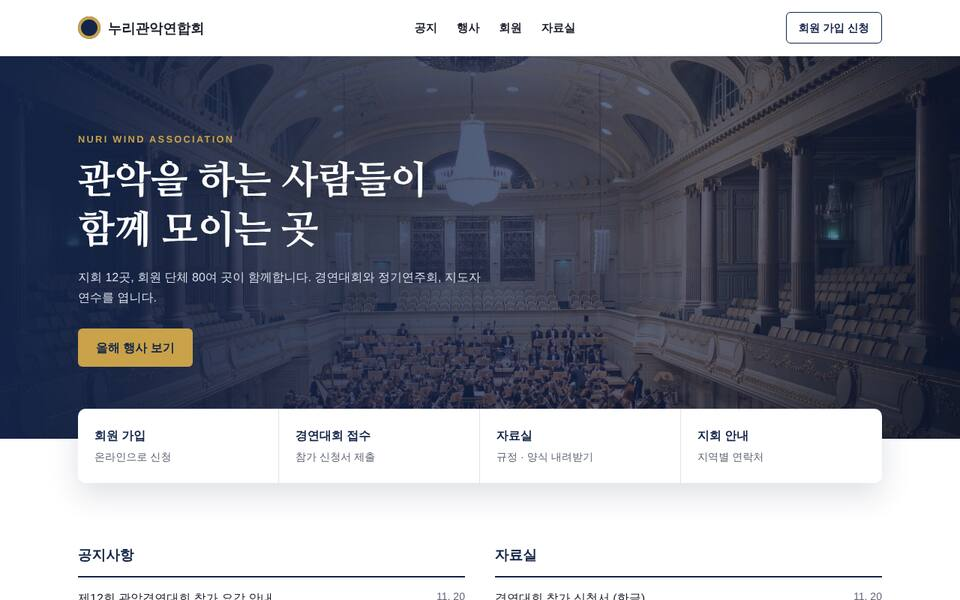
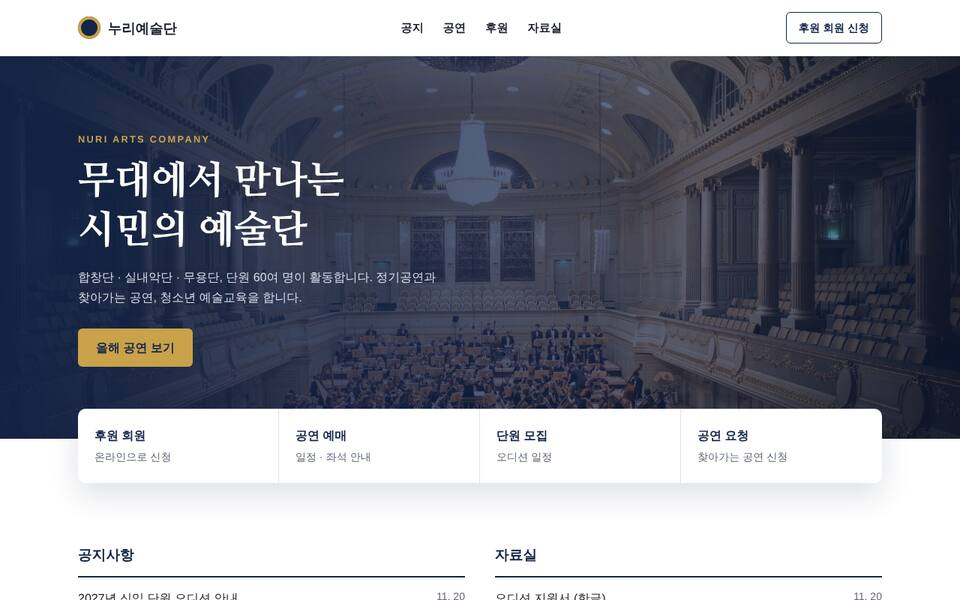
시안: 협회(관악) → 예술단체 '누리예술단'
- 관악은 사례 · 공연기획과 겹쳐서 합창단 · 실내악단 · 무용단이 있는 시민 예술단으로
- 바로가기 · 공지 · 자료실 · 올해 공연(무용 · 실내악 · 합창) · 후원 회원 신청
- 사진: 트럼펫 · 회의장 → 붉은 막 앞 무용수 · 공연장. /web/ 시안 카드 문구 · 그림도 바꿈

Claude-Session: https://claude.ai/code/session_018WutNR1L9ETgf3LqYTWj8i

diff --git a/web/samples/association/index.html b/web/samples/association/index.html
@@ -4,7 +4,7 @@
 <meta charset="utf-8">
 <meta name="viewport" content="width=device-width, initial-scale=1">
 <meta name="robots" content="noindex">
-<title>누리관악연합회 — 스테이지로직 홈페이지 시안</title>
+<title>누리예술단 — 스테이지로직 홈페이지 시안</title>
 <link rel="icon" href="/assets/favicon.svg" type="image/svg+xml">
 <link rel="stylesheet" href="https://cdn.jsdelivr.net/gh/orioncactus/pretendard@v1.3.9/dist/web/variable/pretendardvariable-dynamic-subset.min.css">
 <link rel="stylesheet" href="https://fonts.googleapis.com/css2?family=Nanum+Myeongjo:wght@800&display=swap">
@@ -66,30 +66,30 @@
 </style>
 </head>
 <body>
-<div class="ribbon">스테이지로직 홈페이지 시안 · 협회 / 단체 — 가상의 단체입니다.<a href="/web/#samples">← 홈페이지 제작으로</a></div>
+<div class="ribbon">스테이지로직 홈페이지 시안 · 예술단체 — 가상의 단체입니다.<a href="/web/#samples">← 홈페이지 제작으로</a></div>
 
 <header class="top"><div class="wrap">
-  <div class="brand"><i></i>누리관악연합회</div>
-  <nav class="menu"><a href="#news">공지</a><a href="#events">행사</a><a href="#join">회원</a><a href="#news">자료실</a></nav>
-  <a class="member" href="#join">회원 가입 신청</a>
+  <div class="brand"><i></i>누리예술단</div>
+  <nav class="menu"><a href="#news">공지</a><a href="#events">공연</a><a href="#join">후원</a><a href="#news">자료실</a></nav>
+  <a class="member" href="#join">후원 회원 신청</a>
 </div></header>
 
 <section class="hero">
   <img src="/assets/img/samples/as-hero.jpg" width="1800" height="1200" alt="" fetchpriority="high">
   <div class="wrap">
-    <small>NURI WIND ASSOCIATION</small>
-    <h1>관악을 하는 사람들이<br>함께 모이는 곳</h1>
-    <p>지회 12곳, 회원 단체 80여 곳이 함께합니다. 경연대회와 정기연주회, 지도자 연수를 엽니다.</p>
-    <a class="btn" href="#events">올해 행사 보기</a>
+    <small>NURI ARTS COMPANY</small>
+    <h1>무대에서 만나는<br>시민의 예술단</h1>
+    <p>합창단 · 실내악단 · 무용단, 단원 60여 명이 활동합니다. 정기공연과 찾아가는 공연, 청소년 예술교육을 합니다.</p>
+    <a class="btn" href="#events">올해 공연 보기</a>
   </div>
 </section>
 
 <div class="wrap">
   <nav class="quick">
-    <a href="#join"><b>회원 가입</b><span>온라인으로 신청</span></a>
-    <a href="#events"><b>경연대회 접수</b><span>참가 신청서 제출</span></a>
-    <a href="#news"><b>자료실</b><span>규정 · 양식 내려받기</span></a>
-    <a href="#news"><b>지회 안내</b><span>지역별 연락처</span></a>
+    <a href="#join"><b>후원 회원</b><span>온라인으로 신청</span></a>
+    <a href="#events"><b>공연 예매</b><span>일정 · 좌석 안내</span></a>
+    <a href="#news"><b>단원 모집</b><span>오디션 일정</span></a>
+    <a href="#news"><b>공연 요청</b><span>찾아가는 공연 신청</span></a>
   </nav>
 </div>
 
@@ -98,19 +98,19 @@
     <div>
       <h3>공지사항</h3>
       <ul>
-        <li>제12회 관악경연대회 참가 요강 안내 <span>11. 20</span></li>
-        <li>2027년 정기총회 일정 안내 <span>11. 14</span></li>
-        <li>지도자 연수 수료증 발급 안내 <span>11. 02</span></li>
-        <li>회원 단체 정보 수정 방법 <span>10. 28</span></li>
+        <li>2027년 신입 단원 오디션 안내 <span>11. 20</span></li>
+        <li>송년 정기공연 예매 시작 <span>11. 14</span></li>
+        <li>청소년 예술교육 2기 수료식 <span>11. 02</span></li>
+        <li>후원 회원 기부금 영수증 발급 안내 <span>10. 28</span></li>
       </ul>
     </div>
     <div>
       <h3>자료실</h3>
       <ul>
-        <li>경연대회 참가 신청서 (한글) <span>11. 20</span></li>
-        <li>연합회 정관 <span>03. 04</span></li>
-        <li>회원 가입 안내서 <span>02. 15</span></li>
-        <li>지회 운영 규정 <span>01. 10</span></li>
+        <li>오디션 지원서 (한글) <span>11. 20</span></li>
+        <li>예술단 정관 <span>03. 04</span></li>
+        <li>찾아가는 공연 신청서 <span>02. 15</span></li>
+        <li>2026년 활동 보고서 <span>01. 10</span></li>
       </ul>
     </div>
   </div>
@@ -118,22 +118,22 @@
 
 <section class="band alt" id="events">
   <div class="wrap">
-    <h2>올해 행사</h2>
+    <h2>올해 공연</h2>
     <div class="events">
-      <article class="event"><img src="/assets/img/samples/as-brass.jpg" width="900" height="600" alt="트럼펫을 연주하는 손" loading="lazy"><div><time>8월</time><h3>제12회 관악경연대회</h3><p>초 · 중 · 고 · 일반부, 전국 예선 후 본선</p></div></article>
-      <article class="event"><img src="/assets/img/samples/as-orch.jpg" width="900" height="600" alt="무대의 현악 단원들" loading="lazy"><div><time>10월</time><h3>연합 정기연주회</h3><p>회원 단체 합동 무대</p></div></article>
-      <article class="event"><img src="/assets/img/samples/as-conf.jpg" width="900" height="600" alt="원탁이 놓인 회의장" loading="lazy"><div><time>12월</time><h3>지도자 연수 · 정기총회</h3><p>지도 교사 연수와 한 해 결산</p></div></article>
+      <article class="event"><img src="/assets/img/samples/as-curtain.jpg" width="900" height="600" alt="붉은 막 앞의 무용수 그림자" loading="lazy"><div><time>6월</time><h3>무용단 창작 공연 「여름의 문」</h3><p>시민회관 대공연장</p></div></article>
+      <article class="event"><img src="/assets/img/samples/as-orch.jpg" width="900" height="600" alt="무대의 현악 단원들" loading="lazy"><div><time>10월</time><h3>실내악단 정기연주회</h3><p>모차르트와 브람스의 현악 사중주</p></div></article>
+      <article class="event"><img src="/assets/img/samples/as-hero.jpg" width="1800" height="1200" alt="샹들리에가 걸린 공연장" loading="lazy"><div><time>12월</time><h3>합창단 송년 정기공연</h3><p>세 단이 함께하는 한 해의 마지막 무대</p></div></article>
     </div>
   </div>
 </section>
 
 <section class="join" id="join">
   <div class="wrap">
-    <div><h2>회원 가입 신청</h2><p>단체 정보와 대표자 연락처를 입력하면 사무국이 확인 후 승인합니다.</p></div>
-    <a class="btn" href="#join">가입 신청서 쓰기</a>
+    <div><h2>후원 회원이 되어 주세요</h2><p>매달 1만 원부터 후원할 수 있습니다. 후원 회원에게는 정기공연 초대권과 기부금 영수증을 드립니다.</p></div>
+    <a class="btn" href="#join">후원 신청하기</a>
   </div>
 </section>
 
-<footer><div class="wrap">누리관악연합회(가상) · 이 페이지는 스테이지로직 컴퍼니의 홈페이지 시안입니다.</div></footer>
+<footer><div class="wrap">누리예술단(가상) · 이 페이지는 스테이지로직 컴퍼니의 홈페이지 시안입니다.</div></footer>
 </body>
 </html>

diff --git a/web/index.html b/web/index.html
@@ -125,7 +125,7 @@
         </div>
         <div class="grid grid-2 sample-cards">
           <a class="sample-card" href="/web/samples/academy/"><img src="/assets/img/samples/card-academy.jpg" width="960" height="600" alt="소리결 음악학원 시안 첫 화면" loading="lazy"><span class="kind">음악학원</span><b>소리결 음악학원</b><span class="desc">수업 · 첫 상담 순서 · 연습실 안내. 따뜻한 색과 큰 사진</span></a>
-          <a class="sample-card" href="/web/samples/association/"><img src="/assets/img/samples/card-association.jpg" width="960" height="600" alt="누리관악연합회 시안 첫 화면" loading="lazy"><span class="kind">협회 · 단체</span><b>누리관악연합회</b><span class="desc">공지 · 자료실 · 행사 · 회원 가입 신청. 남색과 금색, 명조 제목</span></a>
+          <a class="sample-card" href="/web/samples/association/"><img src="/assets/img/samples/card-association.jpg" width="960" height="600" alt="누리예술단 시안 첫 화면" loading="lazy"><span class="kind">예술단체</span><b>누리예술단</b><span class="desc">공연 일정 · 공지 · 단원 모집 · 후원 신청. 남색과 금색, 명조 제목</span></a>
           <a class="sample-card" href="/web/samples/personal/"><img src="/assets/img/samples/card-personal.jpg" width="960" height="600" alt="피아니스트 윤하린 시안 첫 화면" loading="lazy"><span class="kind">개인 연주자</span><b>피아니스트 윤하린</b><span class="desc">소개 · 공연 일정 · 실황 영상. 흑백 사진과 넓은 여백</span></a>
           <a class="sample-card" href="/web/samples/festival/"><img src="/assets/img/samples/card-festival.jpg" width="960" height="600" alt="강변 브라스 페스티벌 시안 첫 화면" loading="lazy"><span class="kind">공연 · 축제</span><b>강변 브라스 페스티벌</b><span class="desc">라인업 · 시간표 · 참가 신청. 어두운 바탕에 밝은 색</span></a>
         </div>

diff --git a/assets/css/style.css b/assets/css/style.css
@@ -600,7 +600,7 @@ section.block.dark { background: var(--ink-2); color: var(--white); }
           ceremony 1540575467063-178a50c2df87 · banquet 1519167758481-83f550bb49b3
    samples/ (web/samples 시안) ac-hero 1514119412350-e174d90d280e · ac-piano 1552422535-c45813c61732 · ac-violin 1460036521480-ff49c08c2781
           ac-guitar 1510915361894-db8b60106cb1 · ac-drum 1519892300165-cb5542fb47c7 · ac-room 1511379938547-c1f69419868d
-          as-hero 1519683109079-d5f539e1542f · as-orch 1465847899084-d164df4dedc6 · as-conf 1511578314322-379afb476865 · as-brass 1511192336575-5a79af67a629
+          as-hero 1519683109079-d5f539e1542f · as-orch 1465847899084-d164df4dedc6 · as-curtain 1503095396549-807759245b35
           pe-hero 1513883049090-d0b7439799bf · pe-keys 1571974599782-87624638275e · pe-stage 1453090927415-5f45085b65c0
           fe-hero 1492684223066-81342ee5ff30 · fe-crowd 1459749411175-04bf5292ceea · fe-sax 1415201364774-f6f0bb35f28f
           fe-street 1525994886773-080587e161c2 · fe-fire 1567593810070-7a3d471af022 */
